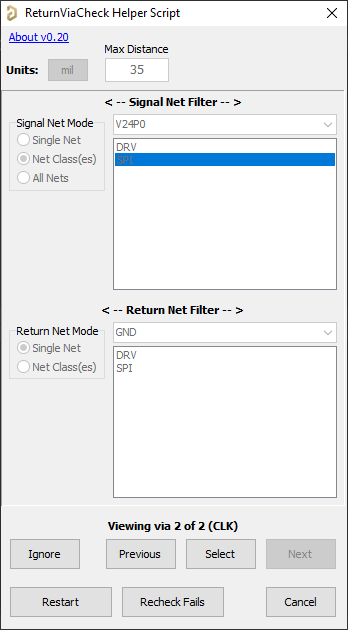
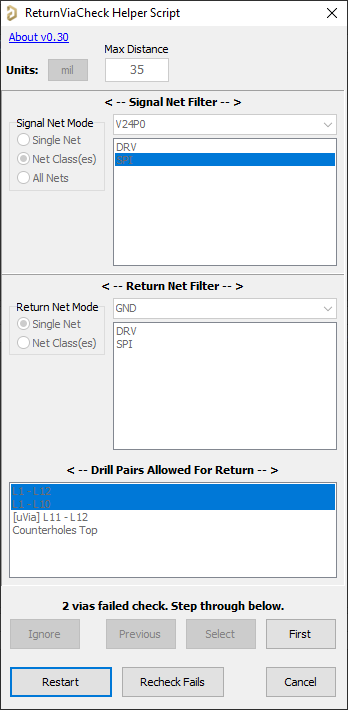
ReturnViaCheck_v0.30 adds support for filtering drill pairs (#170)
* Updated ReturnViaCheck_GUI.png
* Update ReturnViaCheck.dfm
* Update ReturnViaCheck.pas
* Update README.md

diff --git a/Scripts - PCB/ReturnViaCheck/README.md b/Scripts - PCB/ReturnViaCheck/README.md
@@ -33,13 +33,15 @@ Script will detect if this is not the case.
 Vias
 
 ## Known Issues
-### Return vias must be full-stack
-Script explicitly checks for vias to be between top and bottom layers because intelligently detecting correct reference plane connections in other scenarios is much more complex to program.
+### Return via drill pair eligibility
+- Defaults to full-stack at start, but user can select other drill pairs in the layer stack to consider.
+- Return via drill pair eligibility is not validated i.e. user can select drill pairs that aren't _**actually**_ going to provide a return path - the script will still treat them as valid returns if they are close enough.
 
 ## Change log
 - 2023-11-22 by Ryan Rutledge : v0.10 - Initial proof of concept script and requirement musings
 - 2023-11-24 by Ryan Rutledge : v0.11 - some UI cleanup
 - 2023-11-29 by Ryan Rutledge : v0.20 - now adds message to messages panel for each failed via detected
+- 2023-11-30 by Ryan Rutledge : v0.30 - added ability to select drill pairs other than full-stack
 
 # INITIAL REQUIREMENTS SPEC
 ## Non-Modal GUI
@@ -59,6 +61,7 @@ Script explicitly checks for vias to be between top and bottom layers because in
 - [ ] Should through-hole pads of a suitable net be considered? I'm leaning toward no. User can ignore if desired.
 ## Issues to do with stackups and drill pairs
 - [ ] Return vias need to *actually* span the relevant reference plane layers
+
   - [ ] Without getting into actual impedance structure definition, there are some corner cases to watch out for
   - [ ] For an internal signal trace, return via should span layers adjacent to signal layers
   - [ ] If reference planes are not on adjacent layers it may accept a via that doesn't span both reference planes
@@ -66,6 +69,7 @@ Script explicitly checks for vias to be between top and bottom layers because in
   - [ ] another scenario: stackup above has GND1-GND2 buried via
   - [ ] Do we need to enumerate layers and allow tagging layers as GND references?
 - [x] Much simpler implementation would be to only consider full-stack vias as eligible return vias
+  - [x] Allow user to manually select other allowed drill pairs
   - [ ] For complex stackups, only considering full-stack vias could raise false positives (reinforces need for ability to ignore/waive detected failures)
 ## Dedicated list of nets to exclude?
 - [ ] Same potential multiselection problem as above
